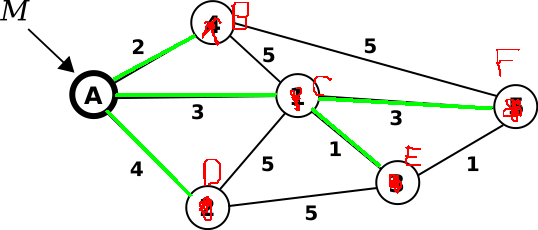
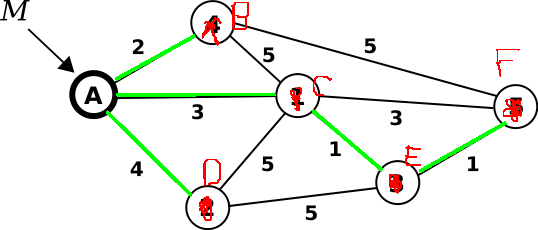
exercise 2

diff --git a/team/salem/exercise.html b/team/salem/exercise.html
@@ -344,14 +344,10 @@ If you type http://gaia.cs.umass.edu/wireshark-labs/protected_pages/HTTP-wiresha
 </div>
 
 
-
-
-
-
 <div id = "91011" style = "display:none">
 	<h1 style = "text-align:center">Link-State Routing Algorithm</h1>
 <h2>Dijkstra's Algorithm</h2>
-<h3>Book's example</h3>
+<!--<h3>Book's example</h3>
 <img src = "pic/path.png" style = "display:block">
 <hr style = "height:2px;border:none;color:red;background-color:red;">
 <img src = "pic/path1.png">
@@ -373,30 +369,82 @@ If you type http://gaia.cs.umass.edu/wireshark-labs/protected_pages/HTTP-wiresha
 <img src = "pic/least.png" style = "margin-bottom:30px">
 
 <hr style = "height:3px;border:none;color:red;background-color:red;">
+-->
+
 
 <h3>Sample Example</h3>
-<img src = "pic/path.png">
-<img src = "pic/shortest.png">
-<img src = "pic/shortest1.png">
-<img src = "pic/link-state2.png">
+<img src = "pic/net.png">
+<ul><li><div>We will use the graph you see below to make a least cost path and a forwarding table for A.</div></li>
+<li><div>For clarification:
+<ul>
+<li>D(v): cost of the least&#45cost path from the source node to destination v as of this iteration of the algorithm.</li>
+<li>p(v): previous node (neighbor of v) along the current least&#45cost path from the source to v.</li>
+<li>N&#39: subset of nodes; v is in N&#39 if the least&#45cost path from the source to v is definitively known.</li>
+</ul></div></li>
+</ul>
 <hr style = "height:2px;border:none;color:red;background-color:red;">
-<img src = "pic/shortest2.png">
-<img src = "pic/link-state.png">
+<img src = "pic/net1.png">
+<img src = "pic/link1.png">
+<div>2,a in the graph above means that 2 is the distance from the root (A), and a is the previous node.</div>
+<div>All of the distance from A starts at infinity.  We start from A and grab all of A's neighbors(B, C, and D).
+<ul><li>The distance between A and B is 2 which is less than infinity, so B's distance is switched to 2 and the previous node is A.</li>
+<li>The distance between A and C is 3 which is less than infinity, so C's distance is stwitched to 3 and the previous node is A.</li>
+<li>The distance between A and D is 4 which is less than infinity, so D's distance is stwitched to 4 and the previous node is A.</li>
+<li>E and F are not direct neighbors of A, so their distance are infinity</li></ul>
+<div>A is added to N&#39 which indicates that A has been checked.</div>
+</div>
 <hr style = "height:2px;border:none;color:red;background-color:red;">
-<img src = "pic/shortest3.png">
-<img src = "pic/link-state.png">
+<img src = "pic/net2.png">
+<img src = "pic/link2.png">
+<div>B is the closest to the starting node A and that is not already in N&#39. So it will be checked next.</div>
+<ul>
+	<li>C has a distance of 7 from B and the distance from A to C is 3, so C&#39s status is not updated because 7 is greater than 3.</li>
+	<li>F has a distance of 7 from B and the distance is currently infinity, so F&#39s status is updated to 7 with the previous node set to B, because 7 is less than infinity.</li>
+	<li>A is in N&#39 , which means that A has already checked all of its neighbors.</li>
+</ul>
 <hr style = "height:2px;border:none;color:red;background-color:red;">
-<img src = "pic/shortest4.png">
-<img src = "pic/link-state.png">
+<img src = "pic/net3.png">
+<img src = "pic/link3.png">
+<div>C is the closest to the starting node A and is not in N&#39. So C will be checked next.</div>
+<ul>
+	<li>D has a distance of 8 from C and the distance from A to D is 4, so D&#39s status is not updated because 8 is greater than 4.</li>
+	<li>E has a distance of 4 from C and the distance is currently infinity, so E&#39s status is updated to 4 with the previous node set to C, because 4 is less than infinity.</li>
+	<li>F has a distance of 6 from C and the distance from B to F is 7, so F&#39s status is updated to 6 with the previous node set to C, because 6 is less than 7.</li>
+</ul>
 <hr style = "height:2px;border:none;color:red;background-color:red;">
-<img src = "pic/shortest5.png">
-<img src = "pic/link-state.png">
+<img src = "pic/net4.png">
+<img src = "pic/link4.png">
+<div>D is the closest to the starting node A and is not in N&#39 (Note: we could have also chosen E). So C will be checked next.</div>
+<ul>
+	<li>E has a distance of 8 from D and the distance from A to D is 4, so D&#39s status is not updated because 8 is greater than 4.</li>
+	<li>Again, C and A are not included because they are already in N&#39.</li>
+</ul>
 <hr style = "height:2px;border:none;color:red;background-color:red;">
-<img src = "pic/shortest6.png">
-<img src = "pic/link-state.png">
+<img src = "pic/net5.png">
+<img src = "pic/link5.png">
+<div>E is the closest to the starting node A and is not in N&#39. So E will be checked next.</div>
+<ul>
+	<li>F has a distance of 5 from E and the distance from C to F is 6, so F&#39s status is updated to 5 with the previous node set to E, because 5 is less than 6.</li>
+</ul>
 <hr style = "height:2px;border:none;color:red;background-color:red;">
-<img src = "pic/shortest7.png">
+<img src = "pic/net6.png">
+<img src = "pic/link6.png">
+<div>Finally, F is the only node that is not in N&#39. So F will be checked.</div>
+<ul>
+	<li>Since all of the F&#39s neighbors are in N&#39, we do not do anything with F.</li>
+</ul>
+<hr style = "height:2px;border:none;color:red;background-color:red;">
+<img src = "pic/net7.png">
 <img src = "pic/forwarding-table.png">
+<ul><li><div>Now the least cost path has been found and we can make a forwarding table.</div></li>
+<li><div>On the left side we have the destinations and on the left side we have the link we are going to use to send the packet (Note: each node has its own forwarding table, so this node only needs to know which node to send the packet to that is on the shortest path to the destination.</div></li>
+<h3>This concludes our lesson.  Please feel free to visit these websites that could help you.</h3>
+<ul>
+	<li><a href = "https://www.youtube.com/watch?v=1nnzBNPo78Y">https://www.youtube.com/watch?v=1nnzBNPo78Y</a></li>
+	<li><a href = "https://www.youtube.com/watch?v=2_0AwfQWKUk">https://www.youtube.com/watch?v=2_0AwfQWKUk</a></li>
+	<li><a href = "http://www.ciscopress.com/articles/article.asp?p=2180210&seqNum=11">http://www.ciscopress.com/articles/article.asp?p=2180210&seqNum=11</a></li>
+	<li><a href = "https://en.wikipedia.org/wiki/Link-state_routing_protocol">https://en.wikipedia.org/wiki/Link-state_routing_protocol</a></li>
+</ul>
 <hr style = "height:3px;border:none;color:#333;background-color:#333;">
 </div>
 
@@ -407,6 +455,8 @@ If you type http://gaia.cs.umass.edu/wireshark-labs/protected_pages/HTTP-wiresha
 
 <div id = "246" style = "display:none">
 	<h1 style = "text-align:center">Github Project</h1>
+<div>This is the project on multithreading that I worked on and modified.</div>
+<a href = "https://github.com/STOzaki/WebServer">My Multithreading Project</a>
 
 
 
